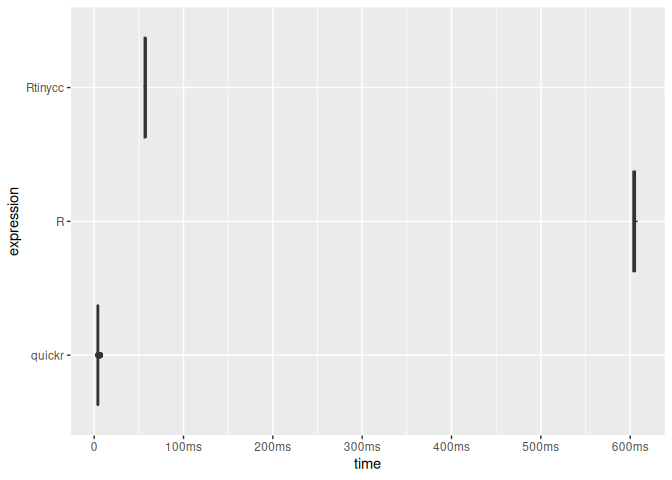
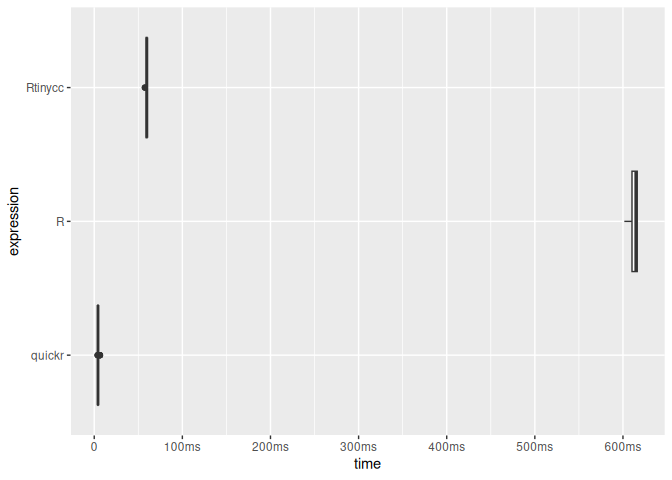
always load tinycc in tests

diff --git a/README.md b/README.md
@@ -188,7 +188,7 @@ tcc_read_cstring(ptr)
 tcc_read_bytes(ptr, 5)
 #> [1] 68 65 6c 6c 6f
 tcc_ptr_addr(ptr, hex = TRUE)
-#> [1] "0x590f85e4faf0"
+#> [1] "0x617a6e2a2980"
 tcc_ptr_is_null(ptr)
 #> [1] FALSE
 tcc_free(ptr)
@@ -219,11 +219,11 @@ through output parameters.
 ptr_ref <- tcc_malloc(.Machine$sizeof.pointer %||% 8L)
 target <- tcc_malloc(8)
 tcc_ptr_set(ptr_ref, target)
-#> <pointer: 0x590f86720ea0>
+#> <pointer: 0x617a6d329d90>
 tcc_data_ptr(ptr_ref)
-#> <pointer: 0x590f88593180>
+#> <pointer: 0x617a6e3b9320>
 tcc_ptr_set(ptr_ref, tcc_null_ptr())
-#> <pointer: 0x590f86720ea0>
+#> <pointer: 0x617a6d329d90>
 tcc_free(target)
 #> NULL
 tcc_free(ptr_ref)
@@ -286,8 +286,8 @@ bench::mark(
 #> # A tibble: 2 × 6
 #>   expression      min   median `itr/sec` mem_alloc `gc/sec`
 #>   <bch:expr> <bch:tm> <bch:tm>     <dbl> <bch:byt>    <dbl>
-#> 1 Rtinycc        30ms   43.7ms      21.8   53.98KB     27.8
-#> 2 Rbuiltin      548µs  600.6µs    1568.     9.05KB     28.0
+#> 1 Rtinycc      30.2ms   32.7ms      26.0   53.98KB     34.0
+#> 2 Rbuiltin    534.5µs  569.4µs    1608.     9.05KB     28.0
 
 # For performance-sensitive code, move the loop into C and operate on arrays.
 ffi_vec <- tcc_ffi() |>
@@ -316,8 +316,8 @@ bench::mark(
 #> # A tibble: 2 × 6
 #>   expression        min   median `itr/sec` mem_alloc `gc/sec`
 #>   <bch:expr>   <bch:tm> <bch:tm>     <dbl> <bch:byt>    <dbl>
-#> 1 Rtinycc_vec    20.1µs   28.5µs    36780.    39.1KB     25.8
-#> 2 Rbuiltin_vec     17µs   32.8µs    35805.    78.2KB     50.2
+#> 1 Rtinycc_vec    20.2µs   28.9µs    34912.    39.1KB     24.5
+#> 2 Rbuiltin_vec   16.9µs   32.8µs    35372.    78.2KB     49.6
 ```
 
 ### Linking external libraries
@@ -380,7 +380,7 @@ ffi <- tcc_ffi() |>
 
 x <- as.integer(1:100) # to avoid ALTREP
 .Internal(inspect(x))
-#> @590f8b2d3db0 13 INTSXP g0c0 [MARK,REF(65535)]  1 : 100 (compact)
+#> @617a6f6489e0 13 INTSXP g0c0 [REF(65535)]  1 : 100 (compact)
 ffi$sum_array(x, length(x))
 #> [1] 5050
 
@@ -396,7 +396,7 @@ y[1]
 #> [1] 11
 
 .Internal(inspect(x))
-#> @590f8b2d3db0 13 INTSXP g0c0 [MARK,REF(65535)]  11 : 110 (expanded)
+#> @617a6f6489e0 13 INTSXP g0c0 [REF(65535)]  11 : 110 (expanded)
 ```
 
 ### Benchmark
@@ -460,9 +460,9 @@ timings
 #> # A tibble: 3 × 6
 #>   expression      min   median `itr/sec` mem_alloc `gc/sec`
 #>   <bch:expr> <bch:tm> <bch:tm>     <dbl> <bch:byt>    <dbl>
-#> 1 R          603.19ms 603.19ms      1.66     847KB    4.97 
-#> 2 quickr       3.77ms   4.13ms    241.       782KB    4.10 
-#> 3 Rtinycc     55.42ms  57.41ms     17.6      782KB    0.502
+#> 1 R          616.01ms 616.01ms      1.62     847KB    4.87 
+#> 2 quickr       3.75ms   4.26ms    235.       782KB    4.10 
+#> 3 Rtinycc     57.26ms  59.79ms     16.9      782KB    0.511
 plot(timings, type = "boxplot") + bench::scale_x_bench_time(base = NULL)
 ```
 
@@ -490,15 +490,15 @@ ffi <- tcc_ffi() |>
 
 p1 <- ffi$struct_point_new()
 ffi$struct_point_set_x(p1, 0.0)
-#> <pointer: 0x590f88e6bbc0>
+#> <pointer: 0x617a6fd56780>
 ffi$struct_point_set_y(p1, 0.0)
-#> <pointer: 0x590f88e6bbc0>
+#> <pointer: 0x617a6fd56780>
 
 p2 <- ffi$struct_point_new()
 ffi$struct_point_set_x(p2, 3.0)
-#> <pointer: 0x590f96adad40>
+#> <pointer: 0x617a740e7dd0>
 ffi$struct_point_set_y(p2, 4.0)
-#> <pointer: 0x590f96adad40>
+#> <pointer: 0x617a740e7dd0>
 
 ffi$distance(p1, p2)
 #> [1] 5
@@ -543,9 +543,9 @@ ffi <- tcc_ffi() |>
 
 s <- ffi$struct_flags_new()
 ffi$struct_flags_set_active(s, 1L)
-#> <pointer: 0x590f88829200>
+#> <pointer: 0x617a7b4b1390>
 ffi$struct_flags_set_level(s, 9L)
-#> <pointer: 0x590f88829200>
+#> <pointer: 0x617a7b4b1390>
 ffi$struct_flags_get_active(s)
 #> [1] 1
 ffi$struct_flags_get_level(s)
@@ -837,7 +837,7 @@ ffi <- tcc_ffi() |>
   tcc_compile()
 
 ffi$struct_point_new()
-#> <pointer: 0x590f8abe3640>
+#> <pointer: 0x617a765b48e0>
 ffi$enum_status_OK()
 #> [1] 0
 ffi$global_global_counter_get()
@@ -890,11 +890,11 @@ ffi <- tcc_ffi() |>
 o <- ffi$struct_outer_new()
 i <- ffi$struct_inner_new()
 ffi$struct_inner_set_a(i, 42L)
-#> <pointer: 0x590f9439cc40>
+#> <pointer: 0x617a75c8a5c0>
 
 # Write the inner pointer into the outer struct
 ffi$struct_outer_in_addr(o) |> tcc_ptr_set(i)
-#> <pointer: 0x590f888290c0>
+#> <pointer: 0x617a6f90d720>
 
 # Read it back through indirection
 ffi$struct_outer_in_addr(o) |>
@@ -923,9 +923,9 @@ ffi <- tcc_ffi() |>
 
 b <- ffi$struct_buf_new()
 ffi$struct_buf_set_data_elt(b, 0L, 0xCAL)
-#> <pointer: 0x590f8abba1b0>
+#> <pointer: 0x617a701044a0>
 ffi$struct_buf_set_data_elt(b, 1L, 0xFEL)
-#> <pointer: 0x590f8abba1b0>
+#> <pointer: 0x617a701044a0>
 ffi$struct_buf_get_data_elt(b, 0L)
 #> [1] 202
 ffi$struct_buf_get_data_elt(b, 1L)
